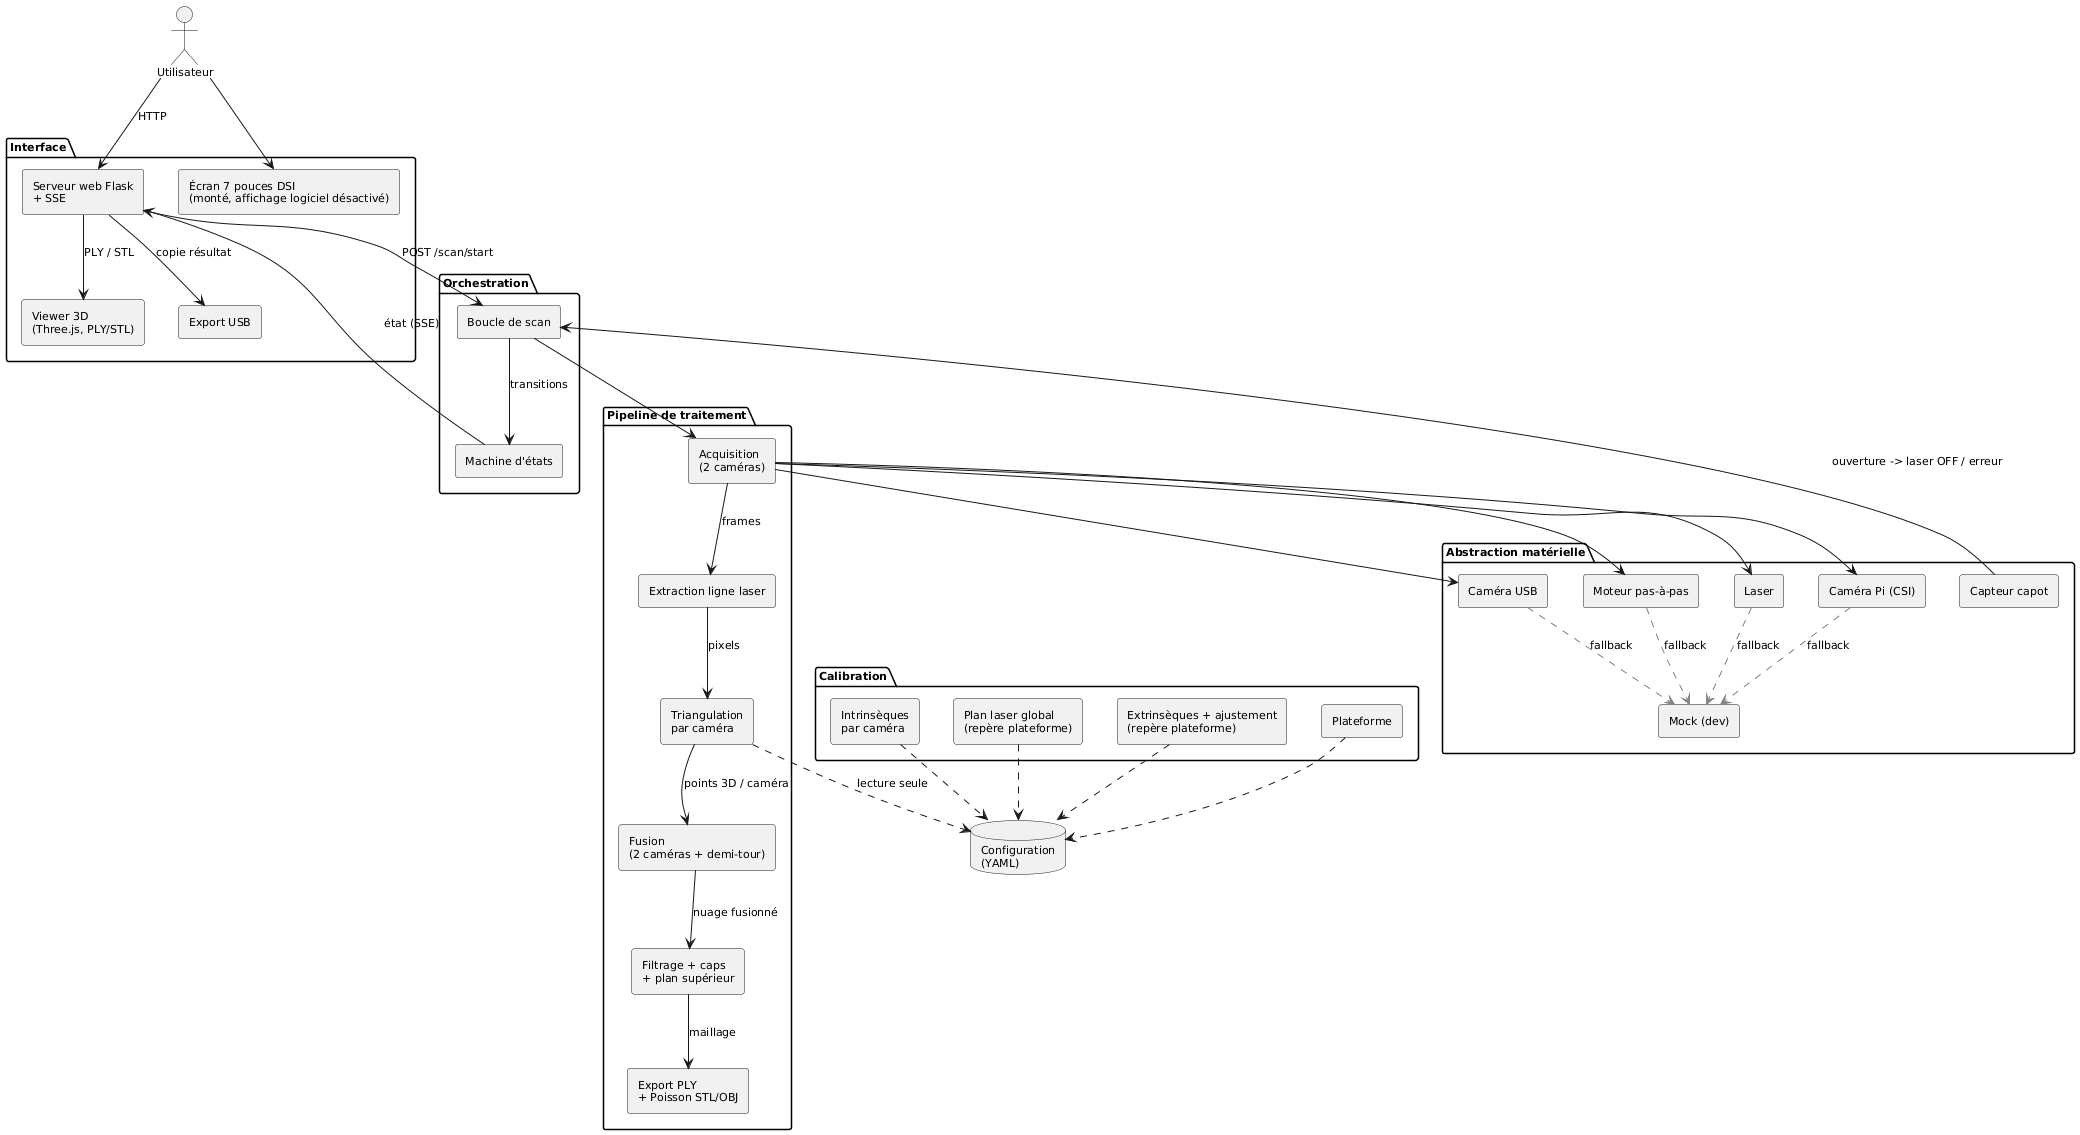
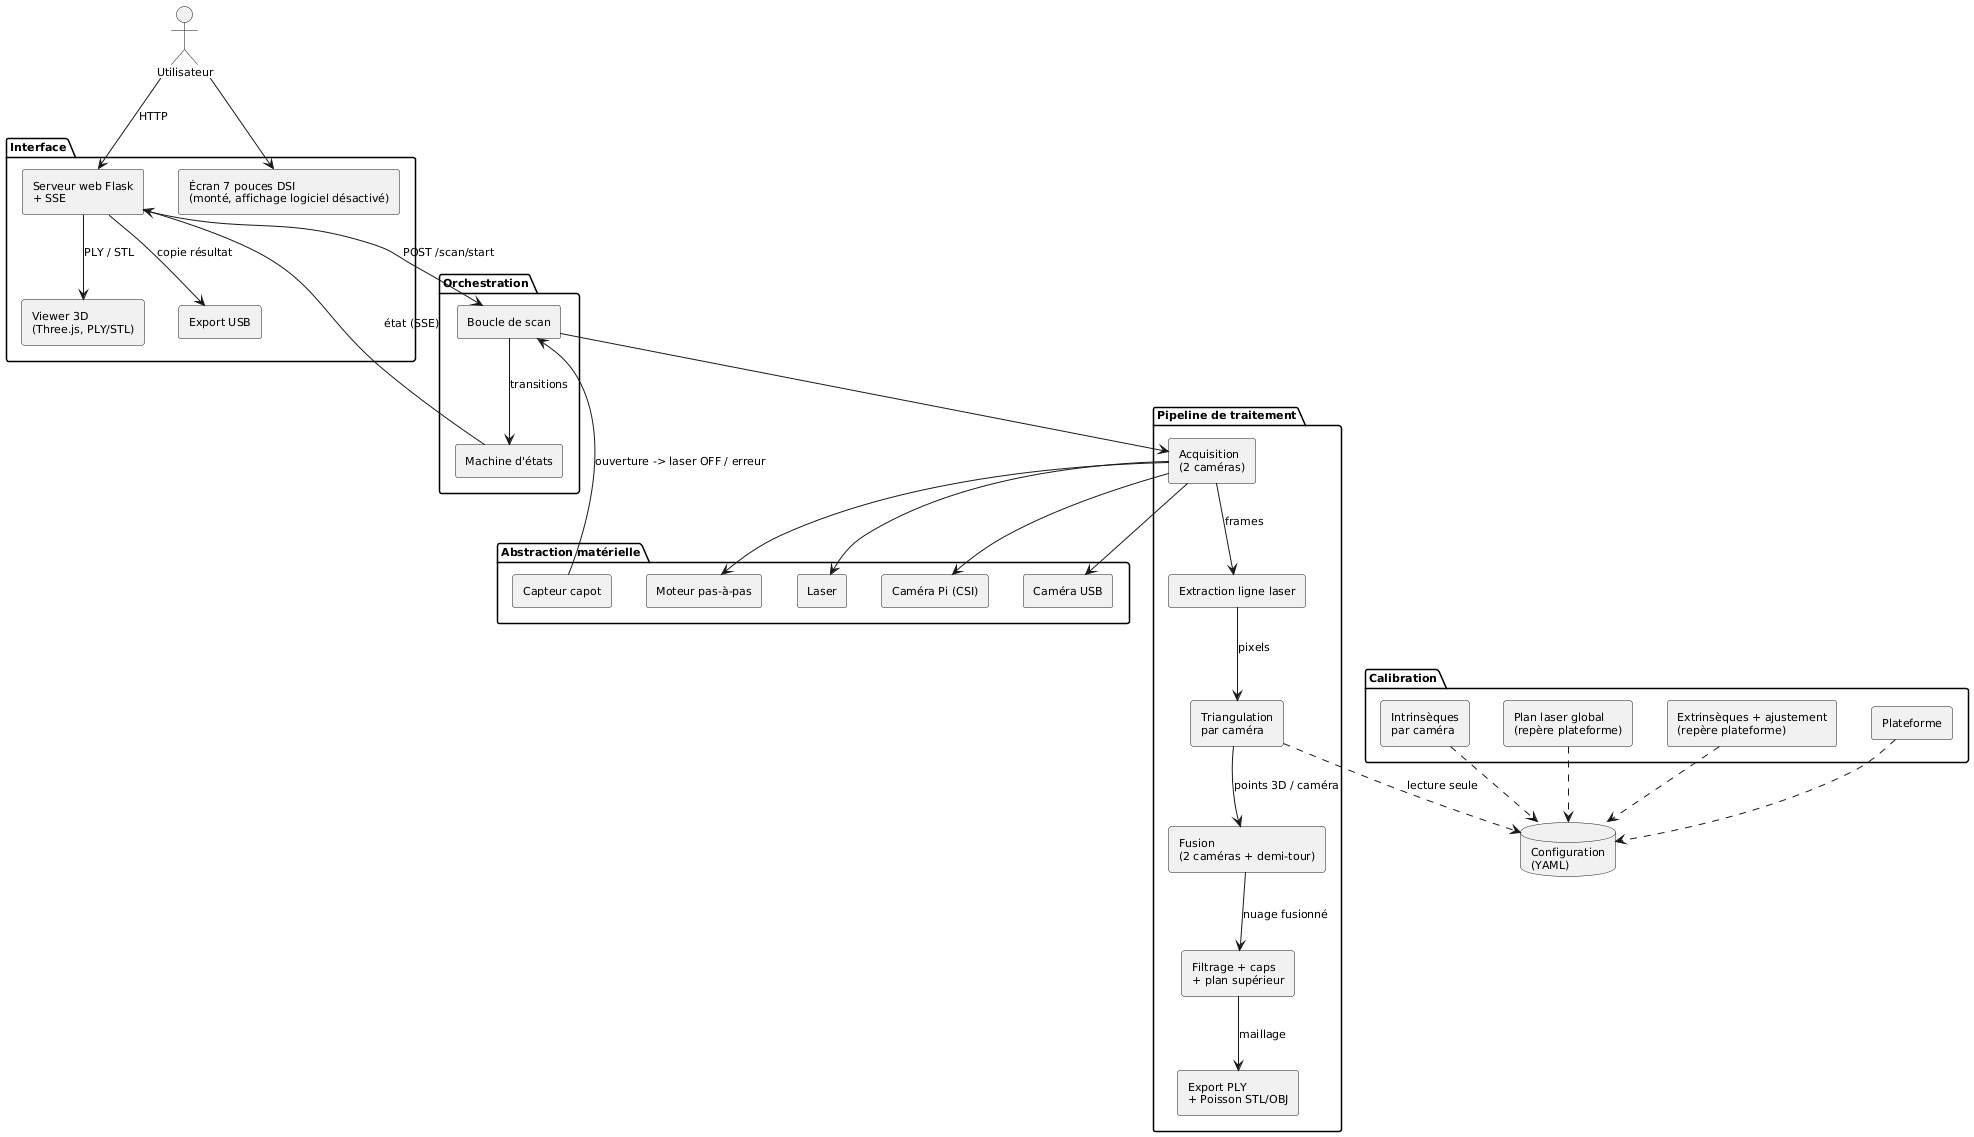
rapport

diff --git a/docs/rapport/chapitres/04_introduction.tex b/docs/rapport/chapitres/04_introduction.tex
@@ -1,12 +1,45 @@
 \section{Introduction}
 
-\subsection{Contexte et objectif}
+\subsection{Contexte}
 
 Ce projet, réalisé dans le cadre de l'unité d'enseignement \filiere{} à la
-HEIG-VD, vise à fournir au MakeLab un scanner 3D pédagogique et modifiable.
-L'objet est posé sur un plateau rotatif dans un caisson fermé. Un laser ligne
-vert éclaire successivement ses profils, observés par deux caméras, puis le
-logiciel reconstruit un nuage de points et un maillage exportable.
+HEIG-VD, répond à un besoin du MakeLab: disposer d'un scanner 3D pédagogique,
+modifiable et reproductible avec les moyens de fabrication disponibles sur
+place. Un tel équipement complète les imprimantes 3D et les outils de
+conception assistée par ordinateur. Il permet notamment de numériser une forme
+existante, d'en conserver une représentation numérique ou de produire une
+base géométrique pour une nouvelle conception.
+
+Le projet porte sur l'ensemble de la chaîne, depuis le dispositif mécanique
+jusqu'au fichier exploitable. Il comprend le caisson, le plateau rotatif,
+l'éclairage laser, les caméras, l'électronique de commande, le logiciel de
+calibration, l'acquisition, la reconstruction et l'interface utilisateur. Le
+prototype doit rester compréhensible par de futurs utilisateurs du MakeLab et
+modifiable par une équipe qui reprendrait le projet.
+
+\subsection{Principe de mesure}
+
+L'objet à numériser est placé sur un plateau rotatif dans un caisson fermé. Un
+laser ligne vert projette un plan lumineux sur sa surface. La déformation de
+la ligne observée dans une image dépend de la position du point éclairé. Après
+calibration des caméras et du plan laser, l'intersection entre le rayon associé
+à un pixel et ce plan fournit un point tridimensionnel.
+
+Le plateau présente successivement les différentes faces de l'objet. À chaque
+position, deux caméras situées de part et d'autre du laser capturent un profil.
+Les points sont ramenés dans le repère du plateau en tenant compte de l'angle
+de rotation, puis fusionnés. Un filtrage limite les points aberrants et une
+reconstruction de surface produit le maillage exporté. La seconde caméra a été
+ajoutée après les premiers essais à une caméra afin de réduire les zones
+éclairées mais masquées depuis un seul point de vue.
+
+Cette méthode reste soumise à des limites géométriques. Une surface doit être
+éclairée par le laser et visible par une caméra; une cavité fermée ou une forte
+contre-dépouille ne peut donc pas être reconstruite. Les matériaux
+transparents, très réfléchissants ou fortement absorbants peuvent également
+dégrader la détection de la ligne.
+
+\subsection{État de l'art}
 
 Les scanners commerciaux à lumière structurée offrent de bonnes performances,
 mais dépassent le budget du projet ou reposent sur des logiciels propriétaires.
@@ -15,11 +48,37 @@ triangulation laser à plateau rotatif est réalisable à faible coût. Le proje
 s'en distingue surtout par l'acquisition à deux caméras, choisie pour réduire
 les occultations, et par une interface web utilisable hors ligne.
 
-\subsection{Objectifs}
+Plusieurs familles de techniques sont couramment utilisées pour numériser un
+objet. La photogrammétrie reconstruit sa géométrie à partir de nombreuses
+photographies et de points visuels communs. Elle demande peu de matériel
+spécialisé, mais dépend fortement de la texture de la surface et du calcul de
+mise en correspondance. La lumière structurée projette un motif connu et
+mesure sa déformation; elle permet une acquisition dense, au prix d'une
+optique et d'une calibration plus complexes. Les capteurs de profondeur
+intègrent directement la mesure, mais offrent moins de liberté sur la
+géométrie et la chaîne de traitement.
+
+La triangulation par laser ligne constitue un compromis adapté au projet. Son
+principe est observable, ses composants sont accessibles et chaque étape peut
+être étudiée séparément. Le caisson réduit l'influence de la lumière ambiante
+et protège l'utilisateur, tandis que le plateau permet de couvrir le pourtour
+de l'objet sans déplacer les caméras. Le choix de deux caméras ne supprime pas
+les limitations optiques, mais augmente les chances qu'une zone éclairée soit
+vue par au moins l'un des capteurs.
+
+\subsection{Cahier des charges et objectifs}
 
 Les objectifs issus du cahier des charges~\cite{cdc} sont résumés dans la
 table~\ref{tab:objectifs}. Un objectif n'est déclaré atteint dans ce rapport que
 s'il est démontré par le prototype ou par une mesure disponible.
+
+Le cahier des charges impose un volume utile de
+$150\times150\times150$\,mm, un cycle inférieur à 10 minutes et une prise en
+main inférieure à 10 minutes. Le résultat doit être exportable au minimum au
+format STL ou OBJ. Le système doit fournir un retour visuel, communiquer par
+USB ou par interface web, rester dans un budget cible de 300\,CHF et enfermer
+la zone de mesure. La sécurité vis-à-vis du laser et des parties mobiles est
+une exigence de conception, pas une option de performance.
 
 \begin{table}[H]
   \centering
@@ -45,10 +104,15 @@ s'il est démontré par le prototype ou par une mesure disponible.
   \label{tab:objectifs}
 \end{table}
 
-\subsection{Organisation du projet}
+\subsection{Démarche et organisation}
 
 Le projet a été conduit sur 16 semaines. Le planning final, reproduit en
-annexe~\ref{annexe:planning}, totalise 361 heures.
+annexe~\ref{annexe:planning}, totalise 361 heures. Le travail a progressé par
+itérations: définition de l'architecture, réalisation des sous-systèmes,
+intégration, puis essais du cycle complet. Les premières acquisitions à une
+caméra ont mis en évidence les occultations et conduit au montage à deux
+caméras. Les calibrations et les paramètres de traitement ont ensuite été
+ajustés sur le prototype assemblé.
 
 \begin{table}[H]
   \centering
@@ -67,8 +131,18 @@ annexe~\ref{annexe:planning}, totalise 361 heures.
   \label{tab:roles}
 \end{table}
 
-Le livrable comprend le prototype, son logiciel, le présent rapport, les
-schémas et fichiers de fabrication, ainsi que des exemples de scans. Les
-chapitres suivants décrivent l'état effectivement livré; les mesures encore
-manquantes sont explicitement signalées et regroupées dans le fichier
+\subsection{Livrables et structure du rapport}
+
+Le livrable comprend le prototype assemblé, son logiciel, les configurations
+de calibration, les schémas et fichiers de fabrication, le présent rapport et
+des exemples de scans. L'interface doit permettre d'exécuter le cycle sans
+manipuler directement le code, de suivre sa progression et de récupérer le
+résultat.
+
+La suite du rapport présente d'abord la conception mécanique, puis la
+conception électrique et électronique. Le chapitre logiciel décrit la
+calibration, l'acquisition, la triangulation, la fusion et l'export réellement
+utilisés. Le prototype et les résultats mesurés sont ensuite confrontés au
+cahier des charges. Les informations qui nécessitent encore une mesure, une
+preuve matérielle ou une nouvelle photographie sont regroupées dans
 \texttt{rapport/TODO.md}.

diff --git a/docs/rapport/chapitres/07_software.tex b/docs/rapport/chapitres/07_software.tex
@@ -4,8 +4,8 @@
 
 Le logiciel Python sépare le matériel, la calibration, l'acquisition, le
 traitement, la reconstruction, l'export, l'orchestration et l'interface. Les
-mêmes interfaces sont utilisées avec le matériel réel ou avec le mock de
-développement.
+modules échangent des images, des paramètres de calibration, des profils 3D et
+des états explicites.
 
 \begin{figure}[H]
   \centering
@@ -21,7 +21,7 @@ développement.
     \toprule
     \textbf{Module} & \textbf{Responsabilité active} \\
     \midrule
-    \texttt{hardware} & Caméras Pi/USB, moteur, laser, porte et mock. \\
+    \texttt{hardware} & Caméras Pi/USB, moteur, laser et capteur de porte. \\
     \texttt{acquisition} & Rotation, contrôle de porte, laser et captures séquentielles. \\
     \texttt{calibration} & Intrinsèques, plan laser global et extrinsèques. \\
     \texttt{processing} & Extraction de ligne et triangulation vers le repère plateforme. \\
@@ -59,12 +59,13 @@ Les paramètres utilisés par le code sont:
   \item l'axe de rotation et son origine dans le repère plateforme.
 \end{itemize}
 
-La configuration fournit une pose mécanique initiale pour chaque caméra. Lors
-du traitement, l'option active \texttt{auto\_cheat\_extrinsics} optimise encore
-les deux poses afin de réduire la distance entre les nuages. Ce mécanisme
-améliore leur superposition, mais montre aussi qu'un protocole extrinsèque
-reproductible reste à consolider. Les fichiers de calibration sont lus pendant
-le scan; ils ne sont pas modifiés par le pipeline.
+Les azimuts retenus, environ $-25^\circ$ pour la caméra Pi et $+33^\circ$ pour
+l'Arducam, sont issus de la calibration et d'essais visant un bon regroupement
+des deux nuages de points. Ils définissent les poses initiales. Lors du
+traitement, l'option active \texttt{auto\_cheat\_extrinsics} ajuste les deux
+poses autour de ces valeurs afin de réduire la distance entre les nuages. Les
+fichiers de calibration sont lus pendant le scan; ils ne sont pas modifiés par
+le pipeline.
 
 \begin{figure}[H]
   \centering
@@ -78,8 +79,8 @@ le scan; ils ne sont pas modifiés par le pipeline.
     \includegraphics[width=\linewidth]{images/ui_calibration_extrinseque.png}
     \\\small (b) Réglage extrinsèque.
   \end{minipage}
-  \caption{Pages de calibration. Leur correspondance avec l'interface finale
-  doit être vérifiée avant publication.}
+  \caption{Pages de calibration de l'interface finale: intrinsèques, plan laser
+  et réglage extrinsèque.}
   \label{fig:ui-calibration}
 \end{figure}
 
@@ -89,6 +90,11 @@ La configuration active demande 100 positions sur un tour. Le moteur comporte
 200 pas physiques par tour et le driver utilise 16 micro-pas, soit 3200
 micro-pas. Chaque acquisition est donc séparée de 32 micro-pas, ou
 $3{,}6^\circ$.
+
+Les résolutions de capture sont configurables et correspondent aux images
+natives demandées aux pilotes. La configuration active utilise
+$640\times480$ pour la Pi Camera et $1920\times1080$ en YUYV pour l'Arducam
+USB. L'image Arducam n'est pas redimensionnée en 480p.
 
 Avant le scan, une boucle ajuste séparément l'exposition des caméras. Elle
 capture trois angles par itération, mesure la largeur médiane des pixels verts
@@ -109,20 +115,26 @@ L'extinction est également exécutée dans les chemins d'erreur.
 
 \subsection{Extraction et triangulation}
 
-L'algorithme actif n'utilise pas la différence $G-R$. Il lit uniquement le
-canal vert de l'image BGR, applique le seuil propre à la caméra, puis retire
-les zones exclues par des masques rectangulaires ou polygonaux. La résolution
-de traitement peut être réduite par les pas d'échantillonnage configurés.
+L'extraction lit le canal vert des images BGR et applique un seuil propre à
+chaque caméra. Les zones qui ne peuvent pas contenir de mesure utile sont
+retirées par des masques rectangulaires ou polygonaux. Le traitement inspecte
+une colonne sur une et une ligne sur deux pour la Pi Camera; pour l'Arducam, il
+inspecte une colonne sur trois et une ligne sur quatre. Cet échantillonnage
+réduit le nombre de pixels testés sans redimensionner les images.
 
-Pour chaque ligne d'image contenant des pixels actifs, l'abscisse retournée est
-la moyenne des colonnes actives. Le résultat contient donc au plus un point
-par ligne. Le paramètre historique \texttt{subpixel} est conservé dans l'API,
-mais le code utilise toujours cette moyenne flottante. Une détection est
-rejetée si elle contient moins de quatre lignes dans la configuration active.
+Pour chaque ligne échantillonnée qui contient des pixels actifs, l'algorithme
+calcule la moyenne de leurs colonnes. Les pas et les décalages
+d'échantillonnage sont ensuite réappliqués: les coordonnées produites restent
+donc exprimées dans le repère de l'image native, soit $640\times480$ ou
+$1920\times1080$. Une détection est rejetée si elle contient moins de quatre
+lignes.
 
-La triangulation transforme ensuite les pixels en rayons, applique les
-extrinsèques, intersecte le plan laser et compense la rotation du plateau.
-Chaque caméra produit ainsi des profils dans le même repère.
+La triangulation utilise alors les intrinsèques de la caméra pour former les
+rayons, les extrinsèques pour les exprimer dans le repère plateforme et le
+plan laser global pour calculer leurs intersections. L'angle courant du
+plateau ramène enfin chaque profil dans l'orientation de référence. Les deux
+caméras produisent ainsi des points directement comparables dans un même
+repère.
 
 \subsection{Fusion et reconstruction}
 

diff --git a/docs/rapport/chapitres/05_conception_mecanique.tex b/docs/rapport/chapitres/05_conception_mecanique.tex
@@ -46,8 +46,8 @@ supprimer cette limite physique.
 \begin{figure}[H]
   \centering
   \includegraphics[width=0.65\linewidth]{images/vue_obsturction_laser.jpeg}
-  \caption{Exemple historique d'occultation avec une seule caméra: la zone
-  éclairée n'est pas visible depuis le point de vue utilisé.}
+  \caption{Occultation observée lors des essais à une caméra: la zone éclairée
+  n'est pas visible depuis le point de vue utilisé.}
   \label{fig:occultation-camera}
 \end{figure}
 
@@ -73,12 +73,10 @@ optique~\cite{iec60825}; le confinement reste donc nécessaire.
 
 Un microswitch de capot est monté et testé. Le logiciel contrôle son état avant
 et juste après l'allumage du laser. Une ouverture détectée provoque l'extinction
-du laser et l'arrêt du scan. Ce contrôle est interrogé par le logiciel et non
-déclenché par une interruption matérielle continue; son temps de réaction doit
-donc encore être caractérisé. Les ouvertures résiduelles du caisson doivent
+du laser et l'arrêt du scan. Les ouvertures résiduelles du caisson doivent
 également être contrôlées avant un usage autonome.
 
-\subsection{Améliorations}
+\subsection{Améliorations à réaliser}
 
 \begin{itemize}
   \item ajouter un revêtement adhérent et un repère de centrage sur le plateau;

diff --git a/docs/rapport/chapitres/11_conclusion.tex b/docs/rapport/chapitres/11_conclusion.tex
@@ -5,11 +5,11 @@ deux caméras, plateau motorisé, interlock, traitement 3D, export STL et
 interface web hors ligne. Le cycle complet mesuré à environ 8 minutes et les
 dépenses de 133,83\,CHF respectent les objectifs correspondants.
 
-La principale amélioration par rapport au prototype intermédiaire est la
-seconde caméra, qui réduit les occultations. Le logiciel transforme les deux
-séries d'images en profils dans un repère commun, fusionne les nuages et
-reconstruit un maillage Poisson. L'ajustement automatique des extrinsèques
-reste toutefois nécessaire dans la configuration active.
+Le passage du montage initial à une caméra au système actuel à deux caméras
+réduit les occultations. Le logiciel transforme les deux séries d'images en
+profils dans un repère commun, fusionne les nuages et reconstruit un maillage
+Poisson. L'ajustement automatique des extrinsèques reste nécessaire dans la
+configuration active.
 
 \begin{table}[H]
   \centering

diff --git a/docs/rapport/schemas/vue_dessus.tex b/docs/rapport/schemas/vue_dessus.tex
@@ -1,6 +1,5 @@
 % Vue de dessus de la géométrie caméra / laser / plateau.
-% Adapté de la présentation intermédiaire (schemas/deux_cameras.tex) à la
-% configuration finale : deux caméras présentes, aux azimuts réels mesurés.
+% Les azimuts proviennent de la calibration et des essais de regroupement.
 \begin{tikzpicture}[scale=0.72, every node/.style={font=\scriptsize}]
   \draw[fill=softblue,draw=linegray] (0,0) rectangle (7.0,5.0);
   \node[deepblue,font=\small\bfseries] at (3.5,4.65) {vue de dessus};
@@ -28,7 +27,7 @@
   \draw[deepblue,very thick,opacity=0.55] (O) -- (cam1);
   \fill[deepblue] (cam1) circle (0.14);
   \draw[deepblue,very thick] (cam1) circle (0.21);
-  \node[deepblue,font=\scriptsize\bfseries,anchor=south east] at ($(cam1)+(-0.18,0.05)$) {Caméra Arducam};
+  \node[deepblue,font=\scriptsize\bfseries,anchor=south east] at ($(cam1)+(-0.18,0.05)$) {Caméra Pi};
   \draw[deepblue,thick] ($(O)+(180:0.95)$) arc (180:155:0.95);
   \node[deepblue,font=\tiny] at ($(O)+(168:1.36)$) {$25^\circ$};
 
@@ -36,7 +35,7 @@
   \draw[heigred,very thick,opacity=0.55] (O) -- (cam2);
   \fill[heigred] (cam2) circle (0.14);
   \draw[heigred,very thick] (cam2) circle (0.21);
-  \node[heigred,font=\scriptsize\bfseries,anchor=north east] at ($(cam2)+(-0.18,-0.05)$) {Caméra PI };
+  \node[heigred,font=\scriptsize\bfseries,anchor=north east] at ($(cam2)+(-0.18,-0.05)$) {Caméra Arducam};
   \draw[heigred,thick] ($(O)+(180:0.95)$) arc (180:213:0.95);
   \node[heigred,font=\tiny] at ($(O)+(201:1.42)$) {$33^\circ$};
 \end{tikzpicture}

diff --git a/docs/rapport/chapitres/12_bibliographie.tex b/docs/rapport/chapitres/12_bibliographie.tex
@@ -1,3 +1,6 @@
 \section{Bibliographie}
 \nocite{*}
+\begingroup
+\setlength{\emergencystretch}{2em}
 \printbibliography[heading=none]
+\endgroup

diff --git a/docs/rapport/main.tex b/docs/rapport/main.tex
@@ -24,6 +24,7 @@
 \usepackage{longtable}
 \usepackage{float}
 \usepackage{setspace}
+\usepackage{xurl}
 \usepackage{hyperref}
 \usepackage[backend=biber,style=numeric,sorting=none]{biblatex}
 \usepackage{fancyhdr}

diff --git a/docs/rapport/TODO.md b/docs/rapport/TODO.md
@@ -26,25 +26,20 @@ source de vérité pour le fonctionnement logiciel.
   difficultés rencontrées.
 - [ ] Contrôler et documenter l'absence de fuite du faisceau lorsque le caisson
   est fermé.
-- [ ] Mesurer le délai maximal entre une ouverture du capot pendant une capture
-  et l'extinction effective du laser. Le code interroge actuellement le capteur
-  avant et juste après l'activation, sans callback asynchrone continu.
 
 ## Images à vérifier ou remplacer
 
 | Fichier | Problème possible | Action recommandée |
 |---|---|---|
-| `images/boite_vue_ext_ouverte.jpeg` | Photo confirmée obsolète: une seule caméra et câblage intermédiaire. | Ne pas réutiliser comme état final; conserver seulement comme historique explicite. |
-| `images/vue_interrieur_dessus_global.jpeg` | Photo confirmée obsolète: une seule caméra et carte perforée. | Ne pas réutiliser comme état final; conserver seulement comme historique explicite. |
+| `images/boite_vue_ext_ouverte.jpeg` | La photo montre l'étape initiale à une caméra et un câblage non définitif. | Conserver uniquement pour présenter cette étape de fabrication. |
+| `images/vue_interrieur_dessus_global.jpeg` | La photo montre l'étape initiale à une caméra et la carte perforée. | Conserver uniquement pour présenter cette étape de fabrication. |
 | `images/photo_composants.jpg` | Vue des composants, mais pas nécessairement de leur intégration finale. | Conserver comme nomenclature ou remplacer par une photo légendée du câblage monté. |
 | `images/boite_finale.jpeg` | Le terme « finale » ne garantit pas que l'interlock, le PCB et les deux caméras soient visibles. | Vérifier la date et le contenu; reprendre une photo extérieure et une intérieure si nécessaire. |
-| `images/vue_obsturction_laser.jpeg` | Montage historique mono-caméra. | Conserver seulement avec la légende historique actuelle. |
+| `images/vue_obsturction_laser.jpeg` | Essai à une caméra utilisé pour illustrer une occultation. | Conserver avec une légende qui identifie clairement cet essai. |
 | `images/montage_2_cameras.jpeg` | Peut montrer une géométrie antérieure aux extrinsèques configurées. | Comparer au montage livré avant réutilisation. |
 | `images/ui_accueil_verrouille.png` | Capture susceptible de ne plus correspondre aux routes et artefacts actuels. | Refaire après un scan complet avec nuages PLY et maillage disponibles. |
 | `images/ui_accueil_deverrouille.png` | Même risque; image non utilisée actuellement. | Mettre à jour ou supprimer des fichiers du rapport. |
-| `images/ui_calibration_intrinseque_laser.png` | L'interface de calibration a évolué vers un plan laser global. | Refaire une capture montrant clairement le damier et la calibration laser actuelle. |
-| `images/ui_calibration_extrinseque.png` | Doit correspondre aux réglages et à l'ajustement extrinsèque actuels. | Refaire après validation du workflow final. |
-| `images/ui_config_camera.png` | Peut ne pas montrer les résolutions et contrôles actifs. | Vérifier Pi 640x480 et USB 1920x1080. |
+| `images/ui_config_camera.png` | Peut ne pas montrer les résolutions et contrôles actifs. | Vérifier les résolutions natives configurables: Pi 640x480 et USB 1920x1080 YUYV dans la configuration actuelle. |
 | `images/ui_manuel.png` | Doit montrer les deux caméras, masques et seuils actuels. | Refaire si une caméra ou une commande diffère. |
 | `images/screen_cylindre_stl.png` | Résultat ancien possible, sans paramètres ni date. | Associer à un scan final reproductible ou indiquer qu'il s'agit d'une illustration. |
 | `images/cube_double_camera.png` | Ne prouve ni précision ni répétabilité. | Conserver uniquement comme illustration, ou remplacer par une comparaison mono/double caméra issue du pipeline final. |